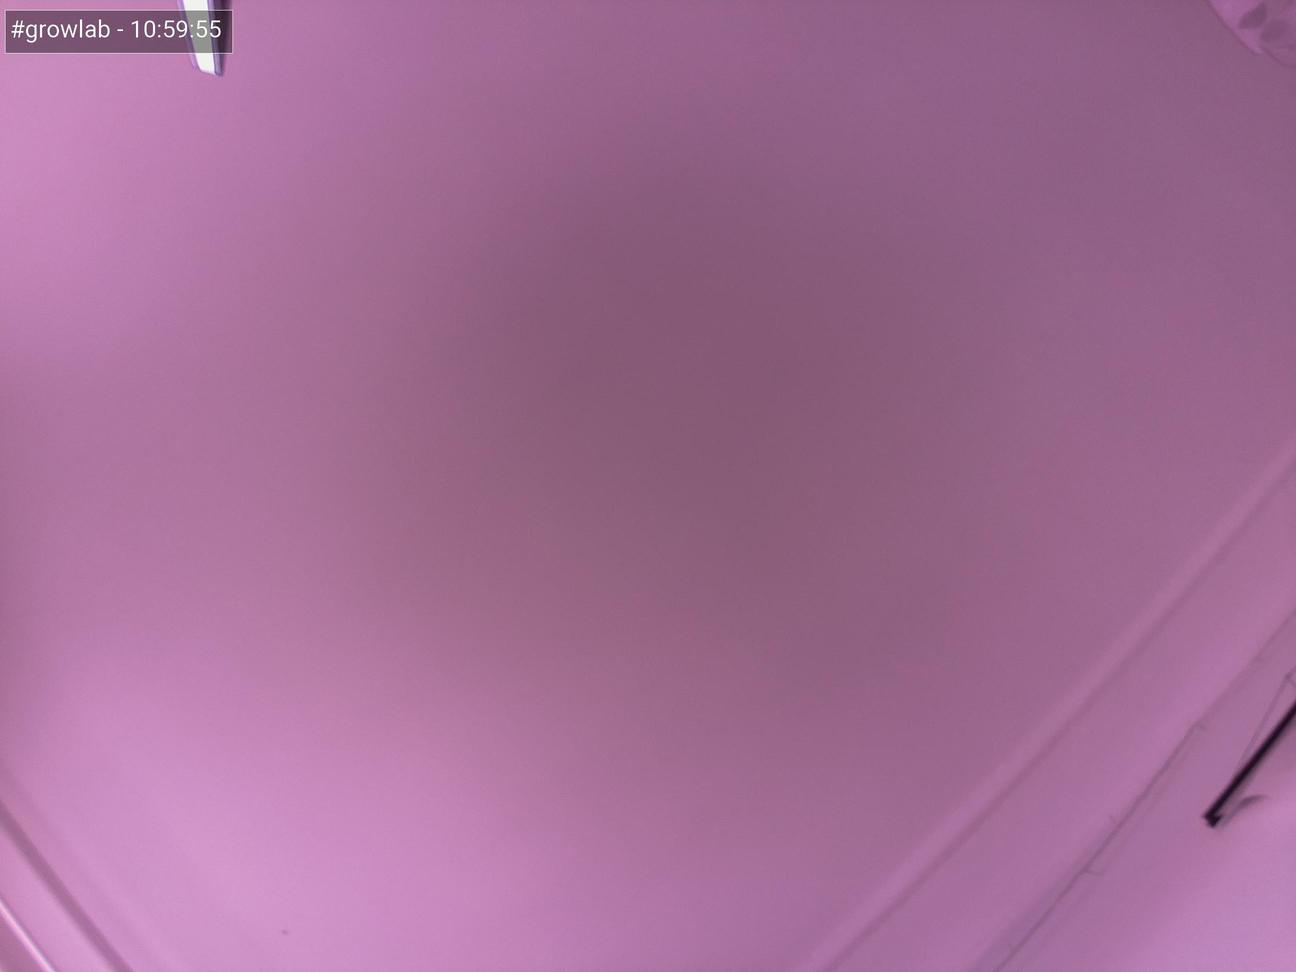
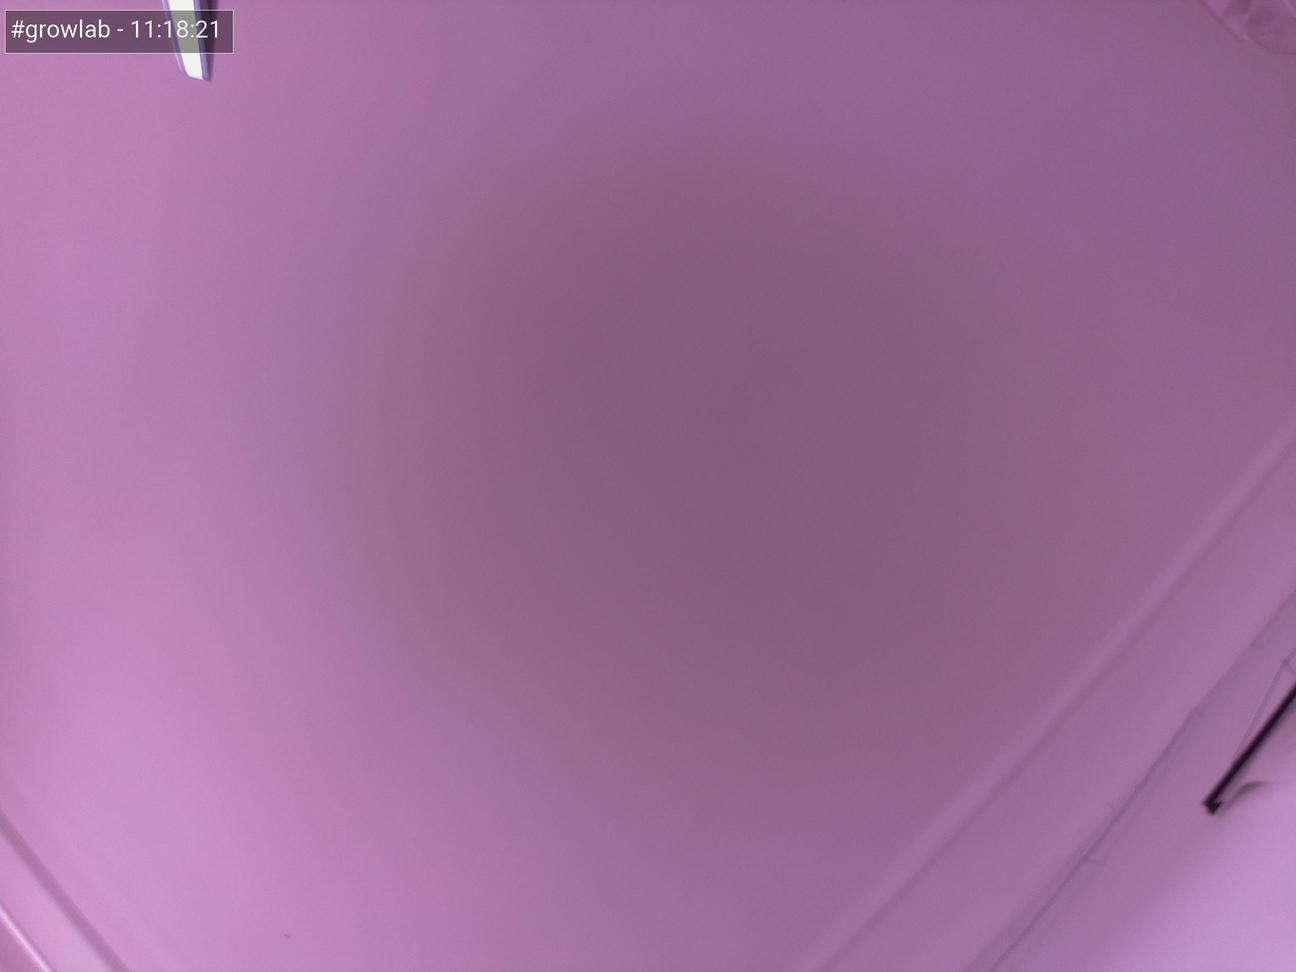
Update images at Sat Jul 31 11:18:30 BST 2021

diff --git a/docs/index.html b/docs/index.html
@@ -47,7 +47,7 @@
                         <tbody>
                             <tr>
                                 <td>Time</td>
-                                <td>10:59:55</td>
+                                <td>11:18:21</td>
                             </tr>
                             <tr>
                                 <td>Temperature</td>
@@ -67,7 +67,7 @@
 
                 <h5>Latest image</h5>
                 <div style="width: 85%;">
-                            <img class="figure-img img-fluid rounded" src="./preview.jpg?uid=1627725603.7234237">
+                            <img class="figure-img img-fluid rounded" src="./preview.jpg?uid=1627726710.1918557">
                 </div>
             </div>
         </div>
